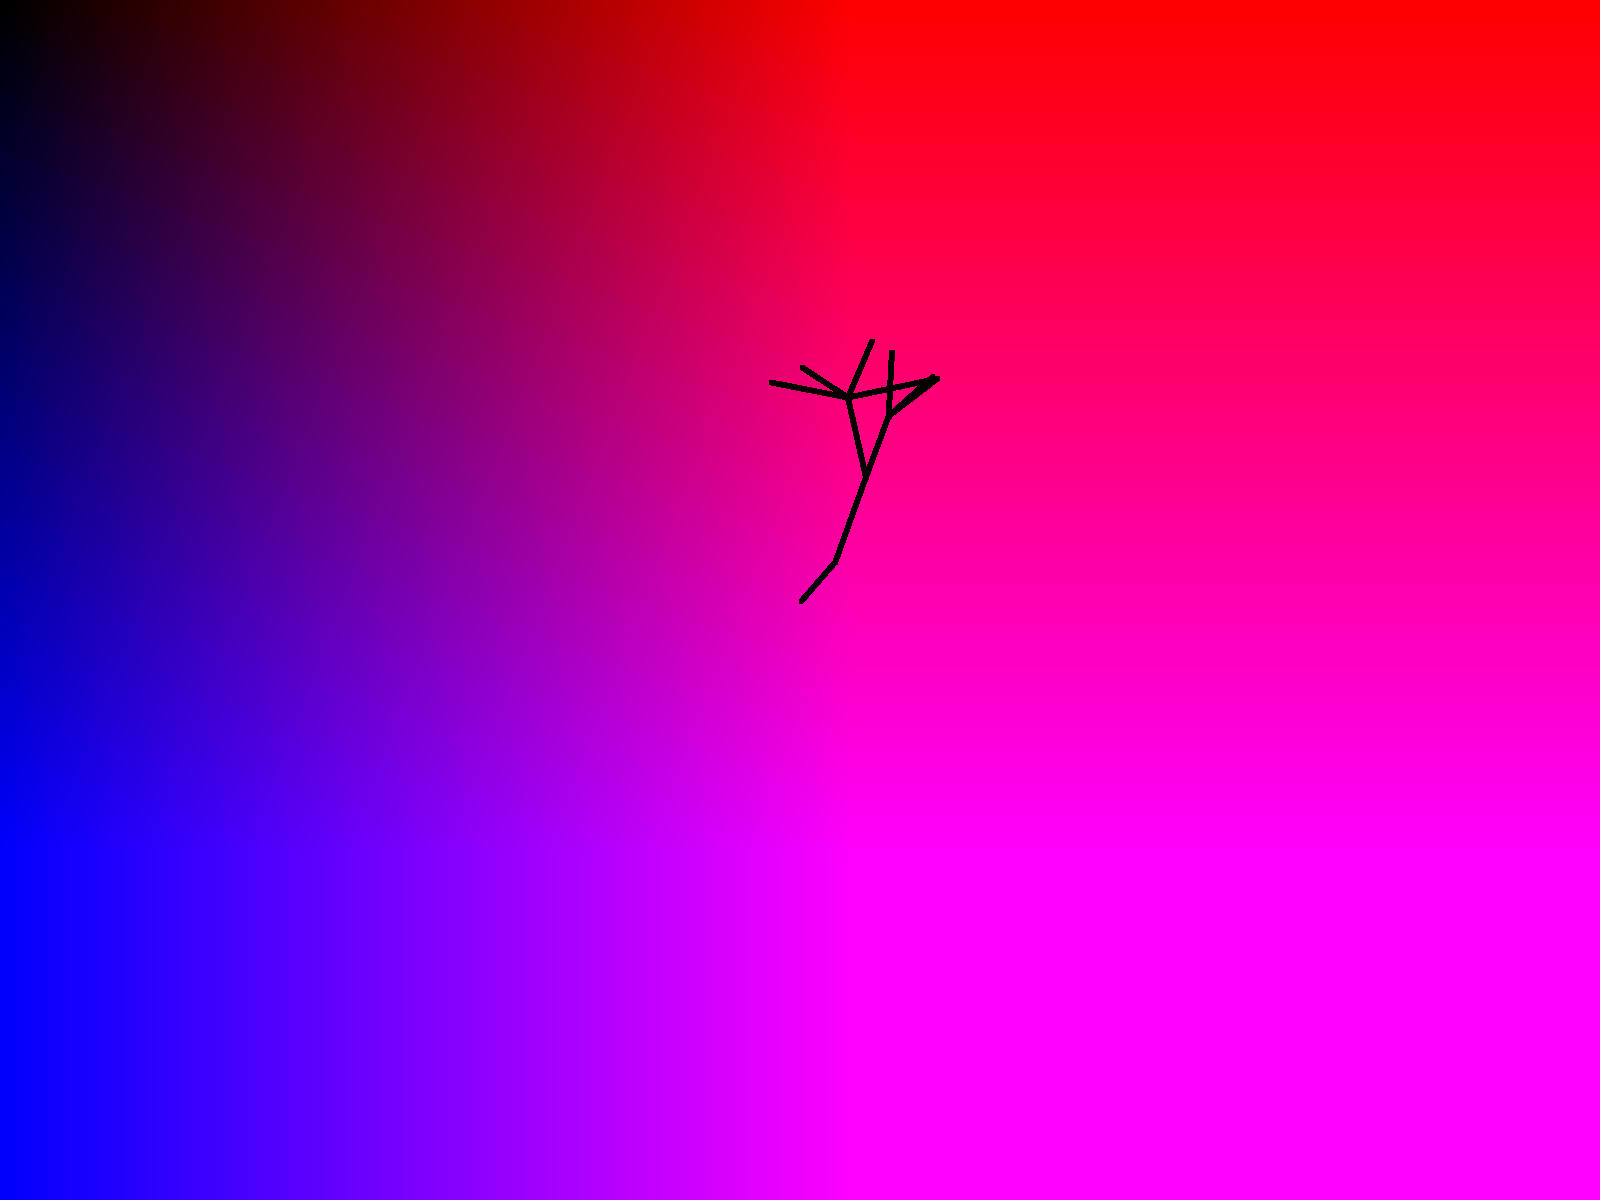
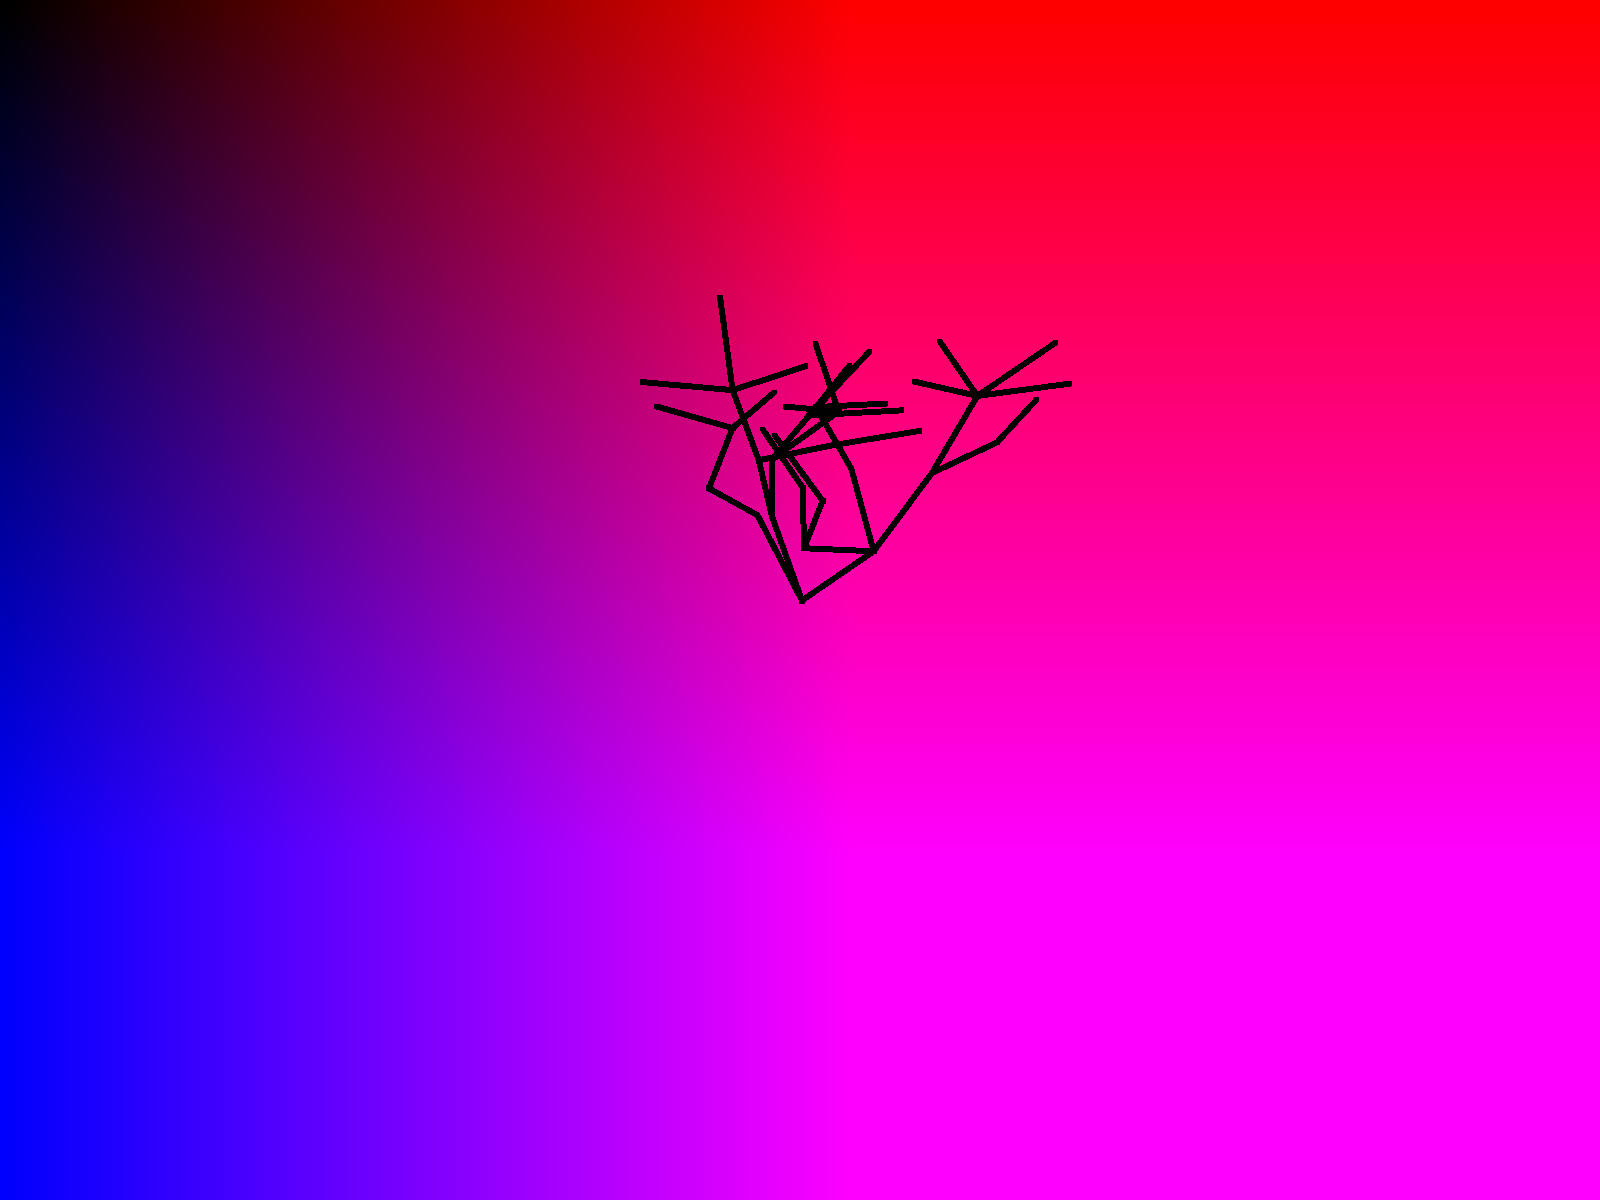
[Add] rayon and start quadtrees

Changed region(s): [[0.4062, 0.2467, 0.6562, 0.4933]]

diff --git a/src/utils/quadtree.rs b/src/utils/quadtree.rs
@@ -1,0 +1,129 @@
+use crate::skeleton::node::Node;
+
+use super::Point;
+
+pub trait HasPoint {
+    fn point(&self) -> Point;
+    fn is_valid(&self, point: Point) -> bool;
+}
+
+impl HasPoint for Node {
+    fn point(&self) -> Point {
+        self.point
+    }
+
+    fn is_valid(&self, point: Point) -> bool {
+        self.is_valid(point, self.thickness)
+    }
+}
+
+// Quadtree implementation
+#[derive(Debug, Clone)]
+pub enum Quadtree<T: HasPoint> {
+    Node {
+        bounds: [f64; 4],
+        objects: Vec<T>,
+        children: [Box<Quadtree<T>>; 4],
+    },
+    Empty,
+}
+
+impl<T: HasPoint + Clone> Quadtree<T> {
+    pub fn new(bounds: [f64; 4]) -> Self {
+        Self::Node {
+            bounds,
+            objects: Vec::new(),
+            children: [
+                Box::new(Quadtree::Empty),
+                Box::new(Quadtree::Empty),
+                Box::new(Quadtree::Empty),
+                Box::new(Quadtree::Empty),
+            ],
+        }
+    }
+
+    pub fn insert(&mut self, obj: T) {
+        let (should_insert, should_subdivide, quadrant) =
+            if let Quadtree::Node {
+                bounds, objects, ..
+            } = self
+            {
+                let should_insert = point_within_bounds(obj.point(), bounds);
+                let should_subdivide = objects.len() >= 4;
+                let quadrant = self.get_quadrant(obj.point());
+                (should_insert, should_subdivide, quadrant)
+            } else {
+                (false, false, 0)
+            };
+
+        if !should_insert {
+            return;
+        }
+
+        if let Quadtree::Node {
+            bounds,
+            objects,
+            children,
+        } = self
+        {
+            if !should_subdivide {
+                objects.push(obj);
+                return;
+            }
+
+            let mid_x = (bounds[0] + bounds[2]) / 2.0;
+            let mid_y = (bounds[1] + bounds[3]) / 2.0;
+
+            children[0] = Box::new(Quadtree::new([bounds[0], bounds[1], mid_x, mid_y]));
+            children[1] = Box::new(Quadtree::new([bounds[0], mid_y, mid_x, bounds[3]]));
+            children[2] = Box::new(Quadtree::new([mid_x, bounds[1], bounds[2], mid_y]));
+            children[3] = Box::new(Quadtree::new([mid_x, mid_y, bounds[2], bounds[3]]));
+
+            children[quadrant].insert(obj);
+        }
+    }
+
+    fn get_quadrant(&self, point: Point) -> usize {
+        match self {
+            Quadtree::Node { bounds, .. } => {
+                let mid_x = (bounds[0] + bounds[2]) / 2.0;
+                let mid_y = (bounds[1] + bounds[3]) / 2.0;
+
+                if point.x <= mid_x {
+                    if point.y <= mid_y {
+                        0
+                    } else {
+                        1
+                    }
+                } else {
+                    match point.y <= mid_y {
+                        true => 2,
+                        false => 3,
+                    }
+                }
+            }
+            Quadtree::Empty => panic!("get_quadrant called on an Empty Quadtree"),
+        }
+    }
+
+    pub fn query_point(&self, point: Point, results: &mut Vec<T>) {
+        match self {
+            Quadtree::Node { bounds, objects, children } => {
+                if !point_within_bounds(point, bounds) {
+                    return;
+                }
+
+                results.extend(objects.iter().cloned().filter(|node| node.is_valid(point)));
+
+                for child in children.iter() {
+                    child.query_point(point, results);
+                }
+            },
+            Quadtree::Empty => {},
+        }
+    }
+}
+fn point_within_bounds(point: Point, bounds: &[f64; 4]) -> bool {
+    point.x >= bounds[0] && point.x <= bounds[2] && point.y >= bounds[1] && point.y <= bounds[3]
+}
+

diff --git a/src/generator/layer.rs b/src/generator/layer.rs
@@ -1,6 +1,6 @@
 use std::f64::consts::PI;
 
-use crate::{skeleton::tree::Tree, sampler::Sampler};
+use crate::{skeleton::tree::Tree};
 
 pub trait Layer<'a> {
     fn generate(&'a mut self, spread: f64, split: f64, branch: f64, pull: f64, branch_height: f64) -> &'a Tree;
@@ -11,8 +11,8 @@ pub struct TrunkLayer<'a> {
 }
 
 impl<'a> Layer<'a> for TrunkLayer<'a> {
-    fn generate(&'a mut self, spread: f64, split: f64, branch: f64, pull: f64, branch_height: f64) -> &'a Tree {
-        let root = self.tree.add_node(None, 5f64, PI/2f64, 1f64);
+    fn generate(&'a mut self, _spread: f64, _split: f64, _branch: f64, _pull: f64, _branch_height: f64) -> &'a Tree {
+        let _root = self.tree.add_node(None, 5f64, PI/2f64, 1f64);
 
         self.tree
     }

diff --git a/src/skeleton/node.rs b/src/skeleton/node.rs
@@ -2,7 +2,7 @@ use std::f64::consts::PI;
 
 use rayon::prelude::*;
 
-use image::{Rgb, RgbImage};
+use image::RgbImage;
 use rand::Rng;
 
 use crate::utils::Point;

diff --git a/src/utils/mod.rs b/src/utils/mod.rs
@@ -1,6 +1,7 @@
 use std::ops::Sub;
 
 pub mod params;
+pub mod quadtree;
 
 pub type Line = (Point, Point);
 
